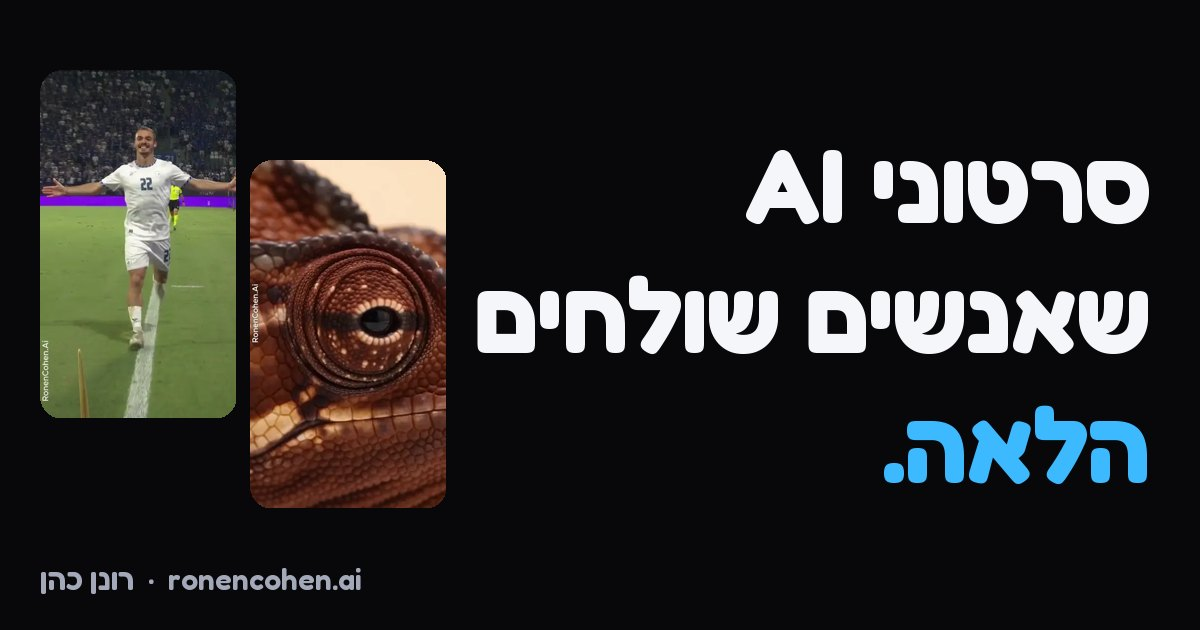
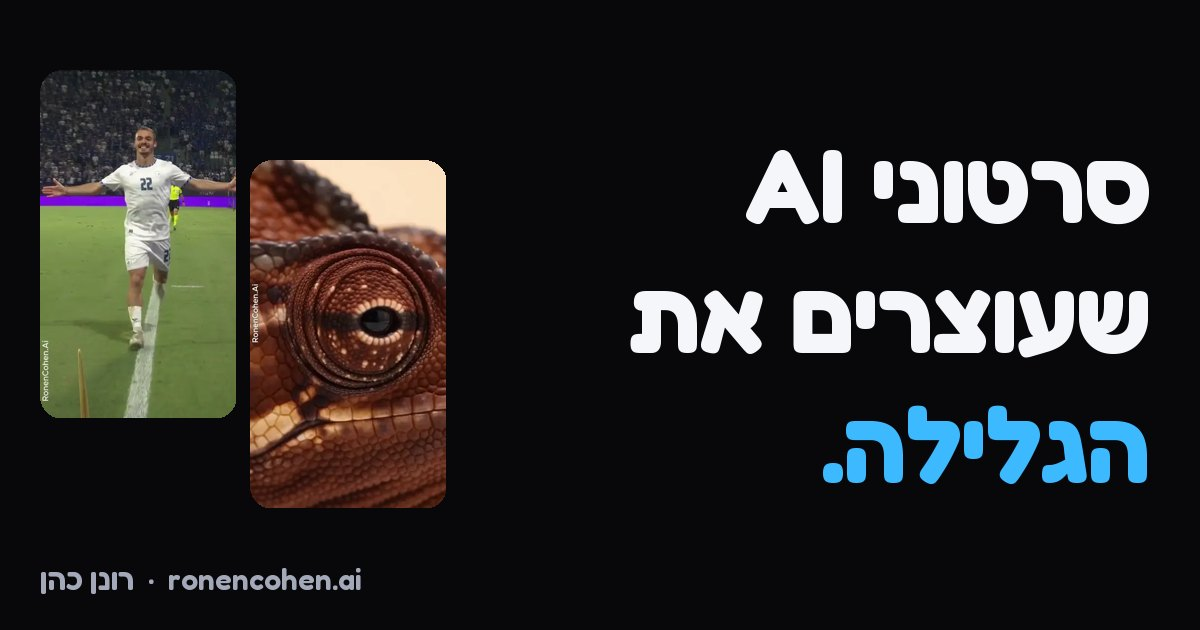
כותרת ראשית: סרטוני AI שעוצרים את הגלילה; תמונת שיתוף חדשה

Changed region(s): [[0.37, 0.4222, 0.8942, 0.573], [0.6783, 0.6333, 0.925, 0.7841]]

diff --git a/index.html b/index.html
@@ -3,14 +3,14 @@
 <head>
 <meta charset="utf-8">
 <meta name="viewport" content="width=device-width, initial-scale=1, viewport-fit=cover">
-<title>רונן כהן · סרטוני AI שאנשים שולחים הלאה</title>
+<title>רונן כהן · סרטוני AI שעוצרים את הגלילה</title>
 <meta name="description" content="סרטוני AI לעסקים ולמותגים שנראים כמו צילום אמיתי. 1.6 מיליון צפיות, שידור ברשת 13, ופרסומות למותגים. שלחו לי וואטסאפ.">
 <link rel="canonical" href="https://ronencohen-ai.github.io/">
 <meta name="theme-color" content="#08080B">
 <meta property="og:type" content="website">
 <meta property="og:locale" content="he_IL">
 <meta property="og:site_name" content="רונן כהן · סרטוני AI">
-<meta property="og:title" content="רונן כהן · סרטוני AI שאנשים שולחים הלאה">
+<meta property="og:title" content="רונן כהן · סרטוני AI שעוצרים את הגלילה">
 <meta property="og:description" content="1.6 מיליון צפיות, שידור ברשת 13, ופרסומות למותגים.">
 <meta property="og:url" content="https://ronencohen-ai.github.io/">
 <meta property="og:image" content="https://ronencohen-ai.github.io/img/og.jpg">
@@ -291,7 +291,7 @@ footer a{color:var(--ink-soft)}
 <main id="main">
   <section class="hero" aria-labelledby="h-hero">
     <div class="wrap">
-      <h1 id="h-hero"><span class="w" style="--i:0">סרטוני</span> <span class="w" style="--i:1" dir="ltr">AI</span><br><span class="w" style="--i:2">שאנשים</span> <span class="w" style="--i:3">שולחים</span> <span class="w hl" style="--i:4">הלאה.</span></h1>
+      <h1 id="h-hero"><span class="w" style="--i:0">סרטוני</span> <span class="w" style="--i:1" dir="ltr">AI</span><br><span class="w" style="--i:2">שעוצרים</span> <span class="w" style="--i:3">את</span> <span class="w hl" style="--i:4">הגלילה.</span></h1>
       <p class="sub">פרסומות, רילס וקליפים לעסקים, שנראים כמו צילום אמיתי.</p>
       <div style="width:100%">
         <div class="wheel" id="wheel" aria-roledescription="גלגל" aria-label="עבודות נבחרות, מתחלפות אוטומטית"><div class="ring" id="fan"></div></div>
@@ -328,7 +328,7 @@ footer a{color:var(--ink-soft)}
       <img src="img/ronen.webp" width="720" height="910" loading="lazy" decoding="async" alt="רונן כהן מחייך באולפן, ומאחוריו מסכים עם סרטונים">
       <div>
         <h2 id="h-about" style="font-size:clamp(32px,4.4vw,48px)">קצת עליי</h2>
-        <p class="lead">אני רונן כהן, די-ג'יי שיוצר <span style="white-space:nowrap">סרטוני <span dir="ltr">AI</span>.</span> על הרחבה למדתי לתפוס קהל בשנייה, והיום אני עושה את זה במסך. אתם מספרים לי מה אתם צריכים, ואני דואג לכל השאר: מהרעיון ועד סרטון שעוצר את הגלילה.</p>
+        <p class="lead">אני רונן כהן, די-ג'יי שיוצר <span style="white-space:nowrap">סרטוני <span dir="ltr">AI</span>.</span> על הרחבה למדתי לתפוס קהל בשנייה, והיום אני עושה את זה במסך. אתם מספרים לי מה אתם צריכים, ואני דואג לכל השאר: מהרעיון ועד סרטון שכולם מדברים עליו.</p>
         <ul class="principles">
           <li><i style="background:var(--sun)"></i><h3>מההתחלה ועד הסוף</h3><p>רעיון, תסריט, הפקה, סאונד ועריכה. אתם מקבלים סרטון גמור.</p></li>
           <li><i style="background:var(--tomato)"></i><h3>יחס אישי וחם</h3><p>אני מלווה אתכם בכל שלב. מדברים איתי, לא עם צוות.</p></li>

diff --git a/tools/make_images.py b/tools/make_images.py
@@ -19,8 +19,8 @@ for i,(t,y) in enumerate([("abufrahi",70),("einav",160)]):
 d=ImageDraw.Draw(og)
 big=ImageFont.truetype(os.path.join(F,"Fredoka-Bold.ttf"),104)
 line(d,big,[("סרטוני",INK),("AI",INK)],1150,120,26)
-line(d,big,[("שאנשים",INK),("שולחים",INK)],1150,250,26)
-line(d,big,[("הלאה.",SUN)],1150,380,26)
+line(d,big,[("שעוצרים",INK),("את",INK)],1150,250,26)
+line(d,big,[("הגלילה.",SUN)],1150,380,26)
 d.text((40,560),"רונן כהן"[::-1]+"  ·  ronencohen.ai",font=ImageFont.truetype(os.path.join(F,"Fredoka-SemiBold.ttf"),30),fill=SOFT)
 og.save(os.path.join(ROOT,"img","og.jpg"),quality=86)
 for size,name in [(32,"favicon-32.png"),(180,"apple-touch-icon.png"),(512,"icon-512.png")]:
